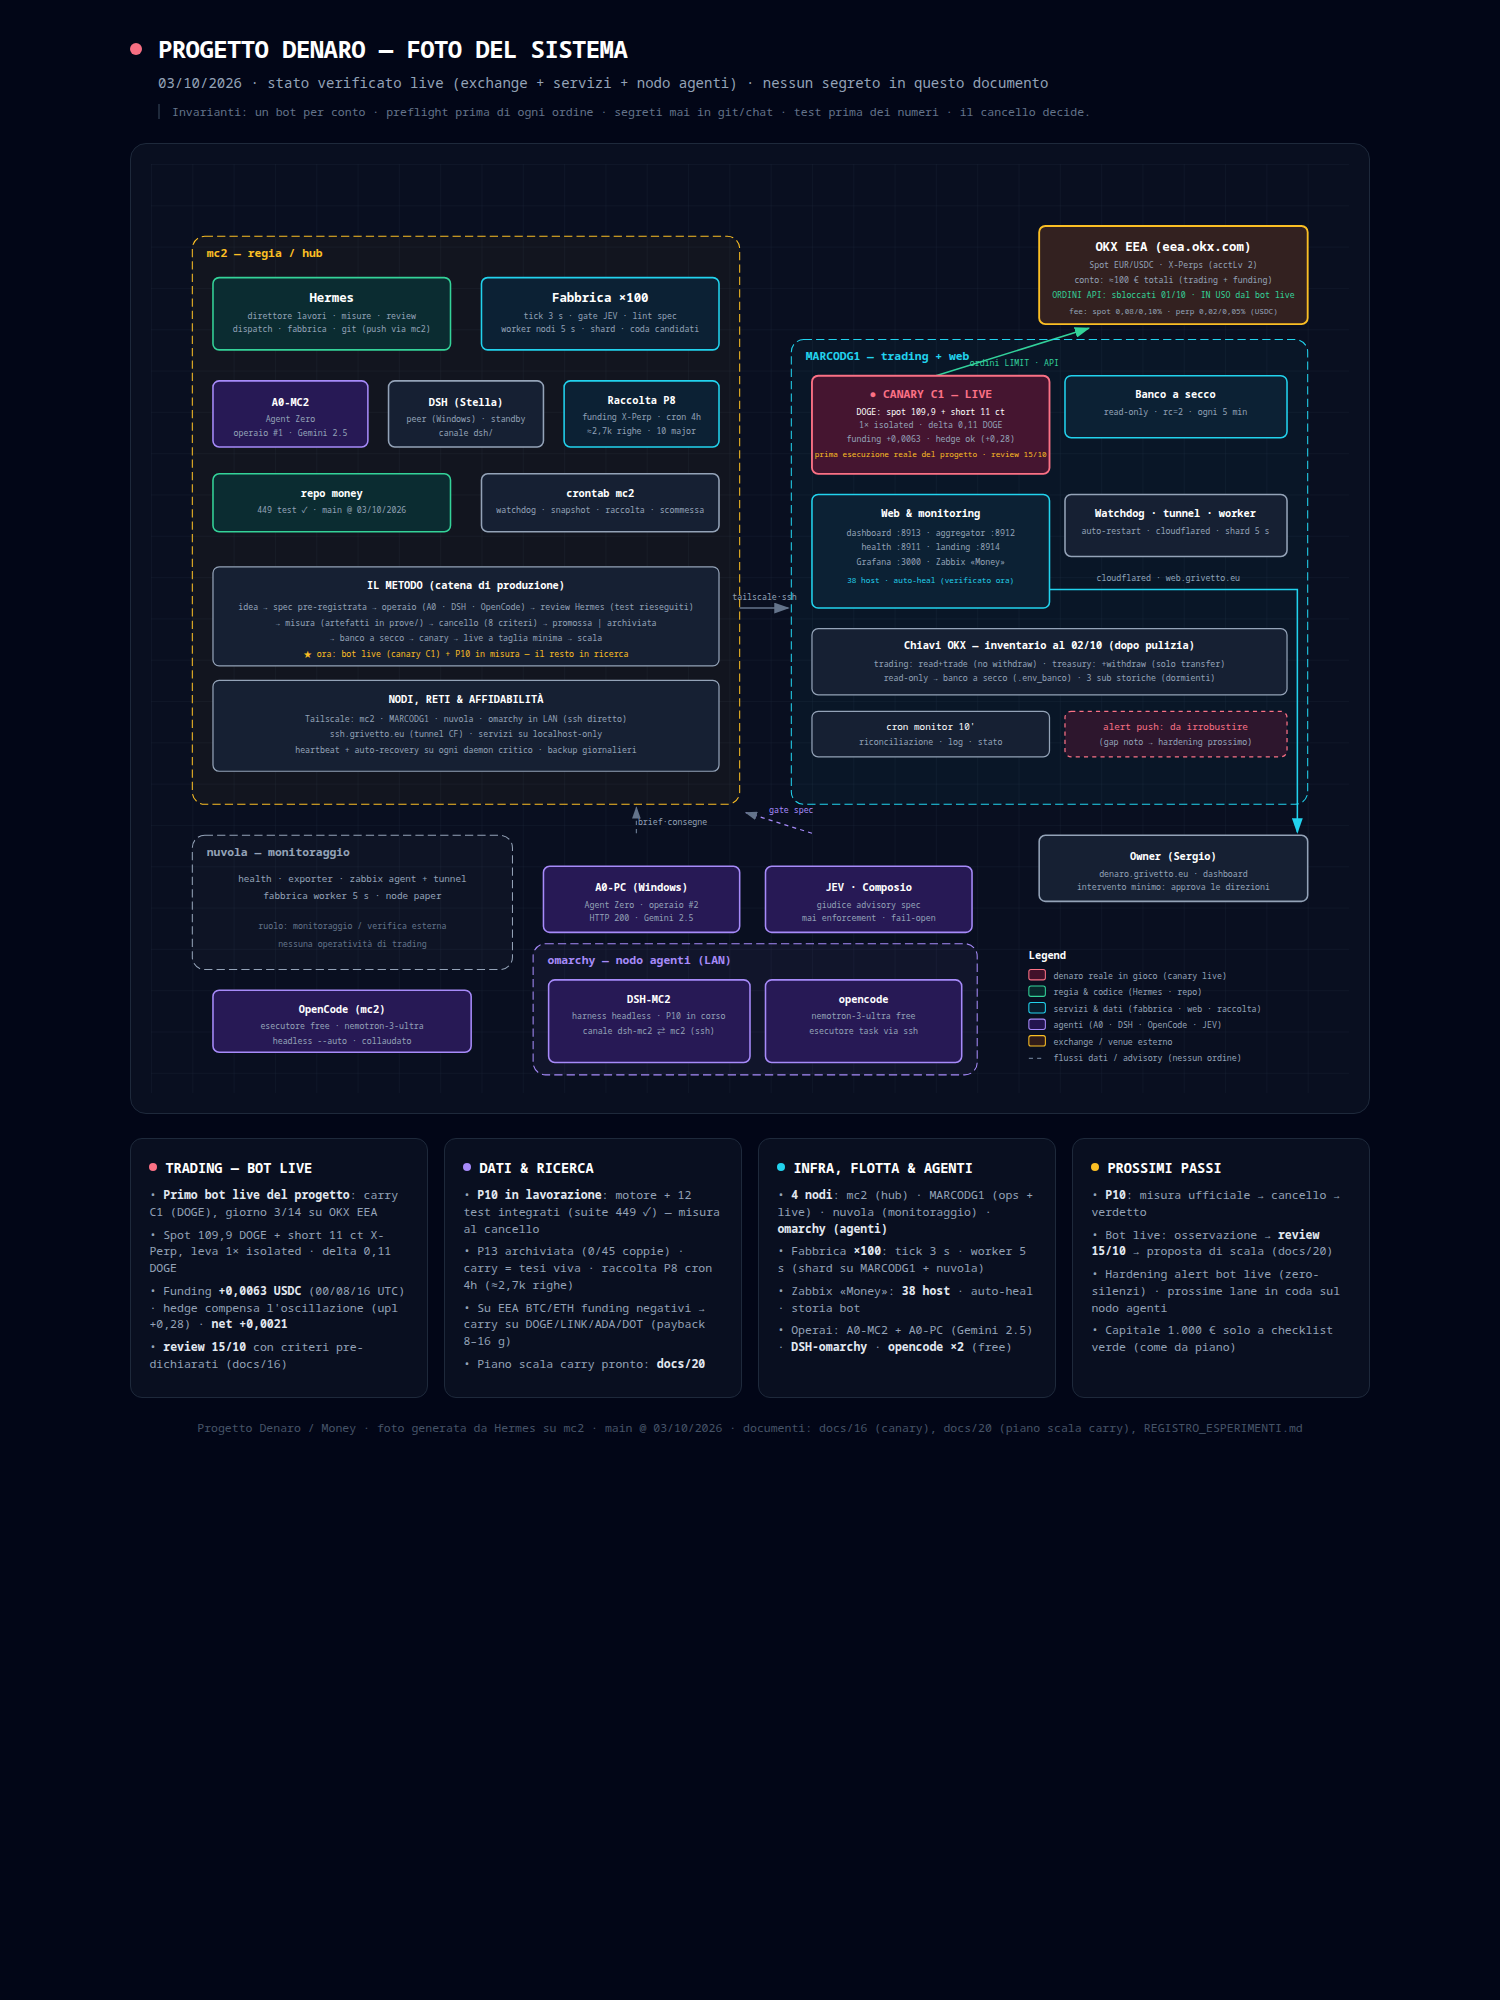
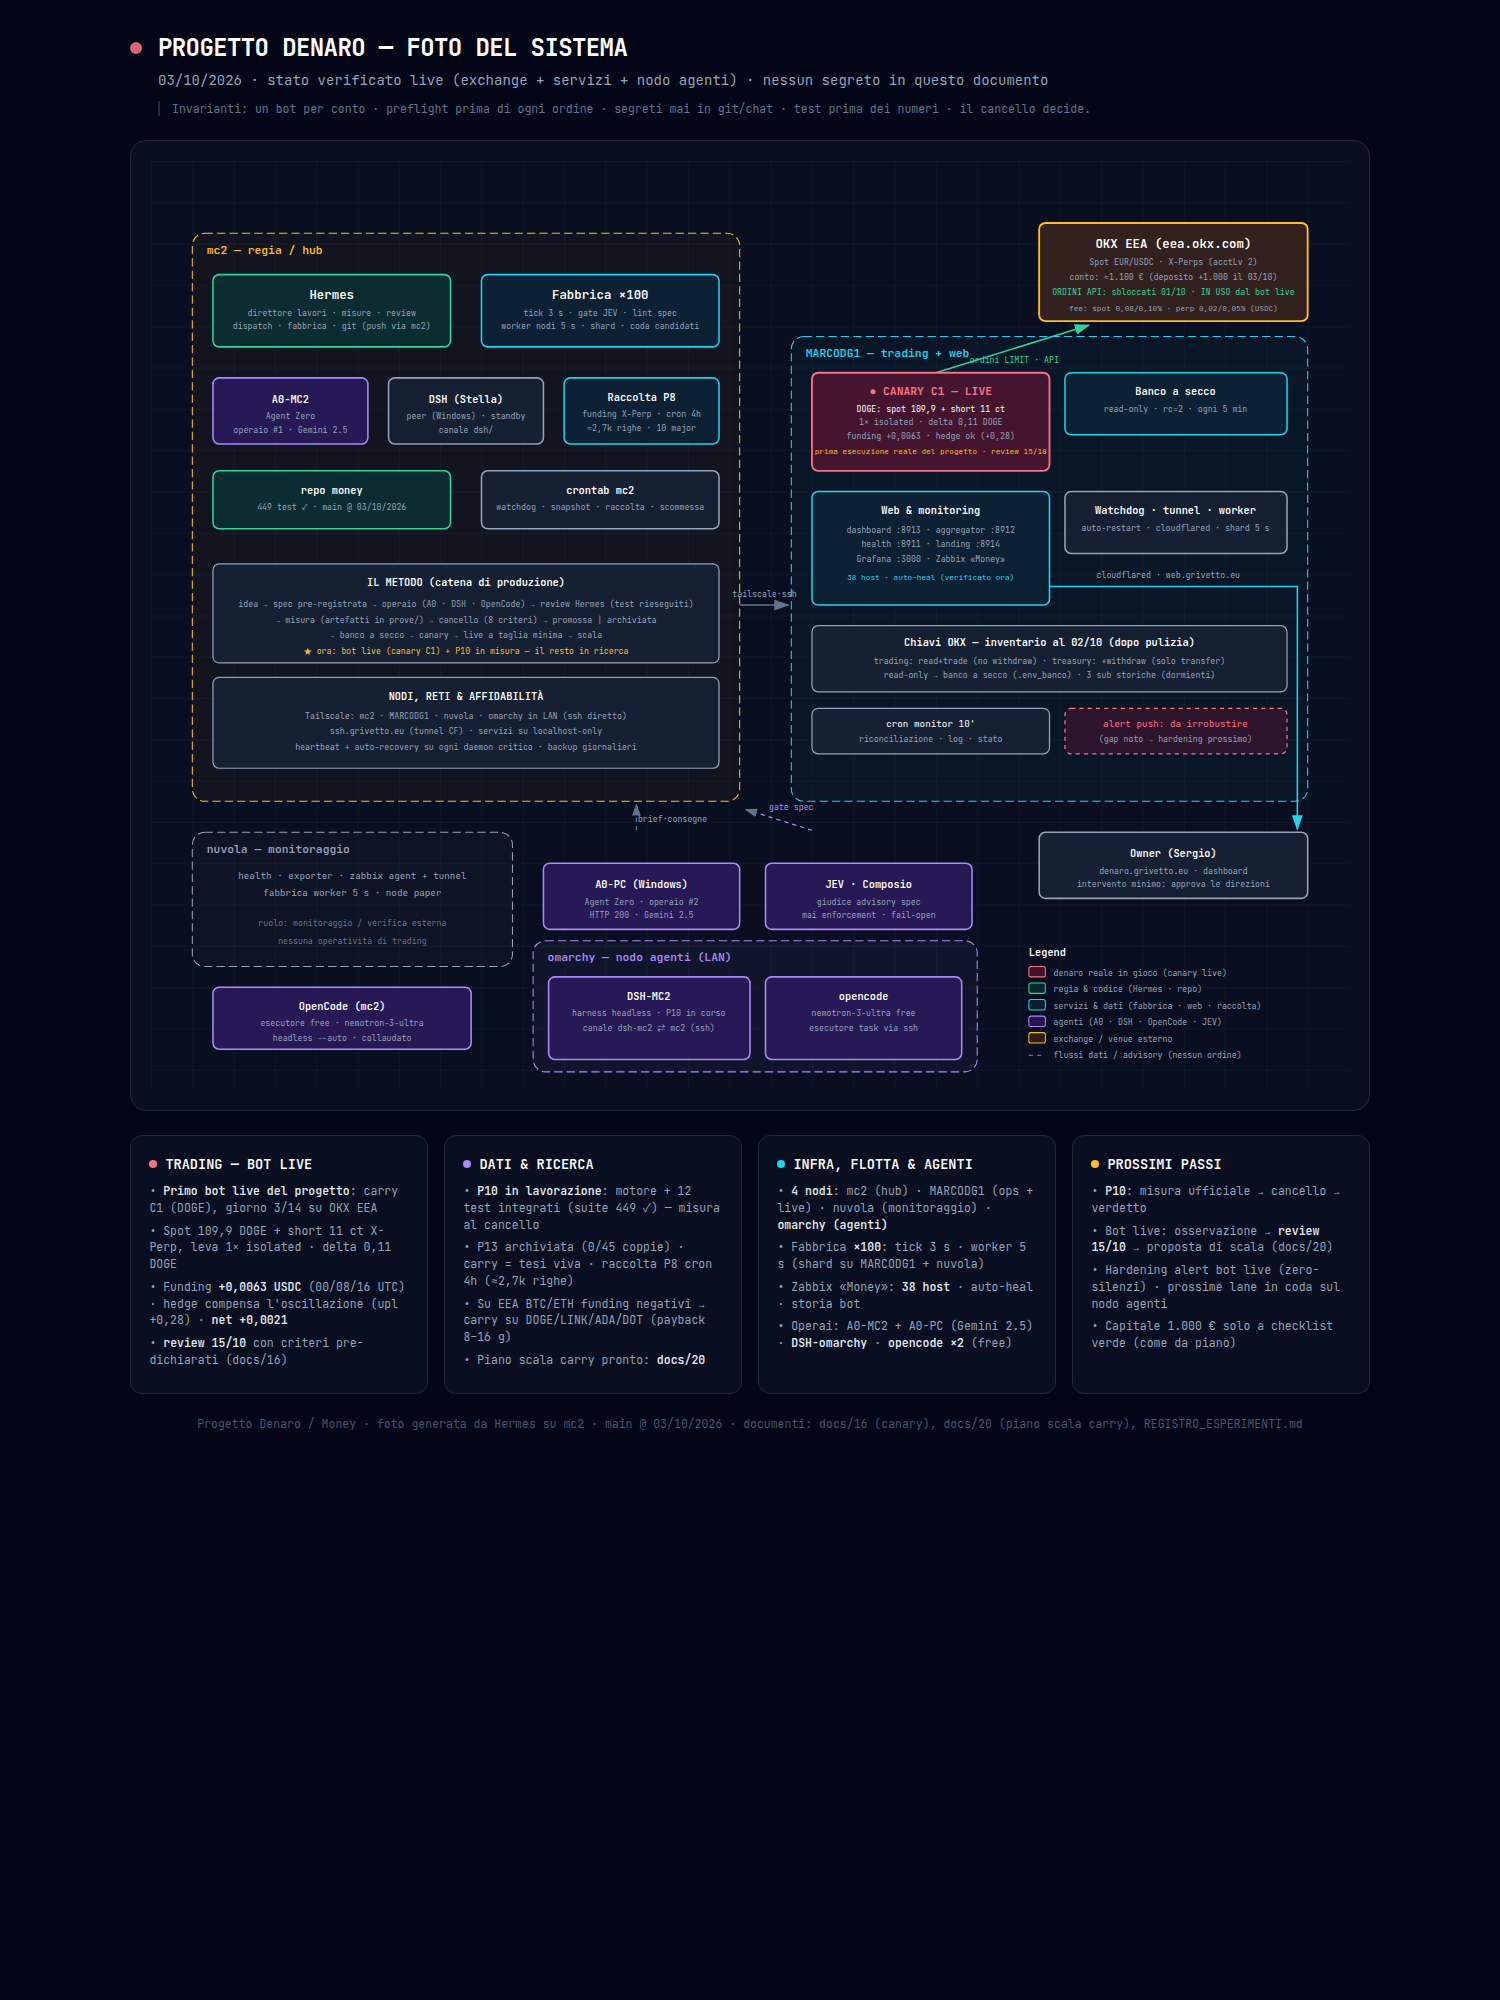
[hermes] capitale 1.1k€: deposito owner +1.000 EUR riconciliato (funding wallet) — README x4, registro, docs/20, vault, foto aggiornati

diff --git a/FOTO_SISTEMA_2026-10-03.html b/FOTO_SISTEMA_2026-10-03.html
@@ -248,7 +248,7 @@
         <rect x="860" y="60" width="260" height="95" rx="6" fill="rgba(120, 53, 15, 0.35)" stroke="#fbbf24" stroke-width="1.8"/>
         <text x="990" y="84" fill="white" font-size="12" font-weight="600" text-anchor="middle">OKX EEA (eea.okx.com)</text>
         <text x="990" y="101" fill="#94a3b8" font-size="8" text-anchor="middle">Spot EUR/USDC · X-Perps (acctLv 2)</text>
-        <text x="990" y="115" fill="#94a3b8" font-size="8" text-anchor="middle">conto: ≈100 € totali (trading + funding)</text>
+        <text x="990" y="115" fill="#94a3b8" font-size="8" text-anchor="middle">conto: ≈1.100 € (deposito +1.000 il 03/10)</text>
         <text x="990" y="130" fill="#34d399" font-size="8" text-anchor="middle">ORDINI API: sbloccati 01/10 · IN USO dal bot live</text>
         <text x="990" y="145" fill="#94a3b8" font-size="7.5" text-anchor="middle">fee: spot 0,08/0,10% · perp 0,02/0,05% (USDC)</text>
 

diff --git a/prove/REGISTRO_ESPERIMENTI.md b/prove/REGISTRO_ESPERIMENTI.md
@@ -84,3 +84,4 @@ dal 2026-09-30 in poi: **26** (P2: 6 misurate; P6: 6 misurate; P10: 8 dichiarate
 - 2026-10-01 — **P13 MISURATA e ARCHIVIATA (kill rapido)** (hermes): cointegrazione pairs/basket su 10 major. Screening EG su addestramento [2020-10-01,2024-06-01), 45 coppie, soglia |t_rho|>=3.8 corretta per 45 test, half-life [3,30]g, |dbeta|/beta<=30%: **0 coppie passanti**. Top: DOGE/LINK t_rho=-3.77 hl=88g dbeta=136%; ETH/LINK -3.72/95g/18%; ADA/XRP -3.64/44g/76%. Le relazioni esistenti sono sotto-soglia, troppo lente (hl 44-108g vs z-60g) e instabili: il rischio principe della spec (fragilita' della cointegrazione su finestre corte) confermato senza forzature. Verifica OOS non eseguita (0 coppie). Test 29/29 (anti-lookahead, aritmetica due gambe, ADF/OLS, screening, rotture, cancello). Artefatti `prove/P13_cointegrazione.*`; modulo `src/money/ricerca/p13_cointegrazione.py` (riutilizzabile) + `scripts/misura_p13.py`. Suite 408→437.
 - 2026-10-03 — **P10 consegnata (DSH-MC2) e integrata**: motore `src/money/ricerca/momentum_cross.py` + 12 test (verifica byte-exact + 449 passed su mc2; review Hermes); runner `scripts/misura_p10.py` (handoff 3 file + MANIFEST, sha256 verificati). Suite 437→449.
 - 2026-10-03 — **P10 MISURATA — verdetto INSUFFICIENTE** (hermes): griglia 8 varianti SOLO su addestramento (tutte riportate); scelta max exp/dd = top-2, momentum 120g, ribilancio 14g (exp netta +53,3%, DD port. 70,1%, n=21). Verifica OOS UNICA [2024-06-01 → 2026-09-25]: 23 eseguite / 7 saltate (cassa); exp netta +3,56%, DD portafoglio MTM 71,1%, t 0,45 (NW 0,43), capitale 1000→1023,4 EUR su 846g. Numerosità 23 < 30 → **'insufficiente' per regola dichiarata**: non promuove e non archivia. Scenario `okx_eea_con_perp` non cambia il verdetto (exp +3,93%). Nota onesta: OOS debole e sotto-potenziata; eventuale seguito = esperimento NUOVO con universo più ampio (nuova pre-registrazione). Fix cosmetico al testo di chiusura del runner (caso 'insufficiente' ≠ 'archiviato'); numeri e selezione immutati. Artefatti `prove/P10_momentum_cross.{txt,json}`.
+- 2026-10-03 — **Deposito owner: +1.000 EUR (SEPA) accreditati su OKX main** (funding wallet; verifica read-only: **+1.000,00 esatti**). Equity conto ≈1.100 EUR. Il capitale resta fermo fino alla review C1 del 15/10; trasferimento funding→trading e conversione EUR→USDC faranno parte del dossier di deploy (operazioni in blocco da approvare).

diff --git a/README.th.md b/README.th.md
@@ -31,7 +31,7 @@
 | **กลยุทธ์ที่วัดแล้ว** | **3** ตระกูล (หนึ่งต่อ node) ทั้งหมดถูกตัดสินที่ต้นทุนจริง |
 | **คำตัดสิน** | **เก็บเข้าคลัง 3** — ไม่มีอะไรถูกเลื่อนขึ้น ดังนั้นไม่มีอะไรอยู่ใน production |
 | **คำสั่งจริงที่ส่งไป** | **0** โดยกลยุทธ์ของ repo นี้ — ที่นี่ไม่มีอะไรเทรดจนกว่าประตูจะเลื่อนขึ้นและเจ้าของจะเติมทุน (canary ตัวจริงติดตามใน `alpha-omega-trading`) |
-| **ทุน** | **~100 EUR** ในบัญชี OKX (main + subs), ตรวจสอบแบบ read-only; canary ตัวจริงที่ได้รับอนุญาตจากเจ้าของ (DOGE carry) เทรดในส่วนเล็ก ๆ ของบัญชีย่อย |
+| **ทุน** | **~1,100 EUR** ในบัญชี OKX (read-only) — เจ้าของฝากเพิ่ม **+1,000 EUR เมื่อ 03/10** เพื่อขยาย carry (deploy รอรีวิว 15/10); canary จริง (DOGE carry) บนบัญชีหลัก |
 | **คอมมิตล่าสุด** | `main` — ดู `git log` สำหรับ head ปัจจุบัน |
 
 Repository: `C:\dev\money` ในเครื่อง, `github.com/grivetto/money` บนรีโมต แพ็กเกจ Python อยู่ใต้

diff --git a/README.es.md b/README.es.md
@@ -31,7 +31,7 @@ cimiento sobre el que construir.
 | **Estrategias medidas** | **3** familias (una por nodo), todas juzgadas a costes reales |
 | **Veredictos** | **3 archivadas** (familias) — el carry en vivo **C1** está en su ventana de validación canary (review 15/10) |
 | **Órdenes reales enviadas** | **0** por las estrategias de este repo — el primer bot en vivo del proyecto (carry **C1**, DOGE) opera en OKX EEA y se sigue en `alpha-omega-trading` (`docs/16`) |
-| **Capital** | **~100 EUR** en las cuentas de OKX (principal + sub), verificado en solo lectura; un canary en vivo autorizado por el propietario (carry de DOGE) opera una pequeña parte de la subcuenta |
+| **Capital** | **~1,100 EUR** en las cuentas de OKX (verificado en solo lectura) — el propietario depositó **+1.000 EUR el 03/10** para escalar el carry (despliegue condicionado a la revisión del 15/10); el canary en vivo (carry de DOGE, autorizado) opera en la cuenta principal |
 | **Último commit** | `main` — ver `git log` para el head actual |
 
 Repositorio: `C:\dev\money` en local, `github.com/grivetto/money` en remoto. Paquete Python bajo

diff --git a/README.it.md b/README.it.md
@@ -30,7 +30,7 @@ sua storia, come memoria di cosa è stato provato — non come base su cui costr
 | **Strategie misurate** | **3** famiglie (una per nodo), tutte giudicate ai costi reali |
 | **Verdetti** | **3 archiviate** (famiglie) — il carry live **C1** è nella finestra di validazione canary (review 15/10) |
 | **Ordini reali inviati** | **0** dalle strategie di questo repo — il primo bot live del progetto (carry **C1**, DOGE) opera su OKX EEA ed è tracciato in `alpha-omega-trading` (`docs/16`) |
-| **Capitale** | **~100 EUR** sui conti OKX (main + sub), verificati in sola lettura; un canary live autorizzato dall'owner (carry DOGE) opera su una piccola porzione del sub-account |
+| **Capitale** | **~1.100 EUR** sui conti OKX (verificati in sola lettura) — l'owner ha depositato **+1.000 EUR il 03/10** per la scala del carry (deploy subordinato alla review del 15/10); il canary live (carry DOGE, autorizzato) gira sul conto main |
 | **Ultimo commit** | `main` — vedi `git log` per la testa corrente |
 
 Repository: `C:\dev\money` in locale, `github.com/grivetto/money` in remoto. Pacchetto Python sotto

diff --git a/README.md b/README.md
@@ -31,7 +31,7 @@ foundation to build on.
 | **Strategies measured** | **3** families (one per node), all judged at real costs |
 | **Verdicts** | **3 archived** (strategy families) — the live carry **C1** is in its canary validation window (review 15/10) |
 | **Real orders sent** | **0** by this repo's strategies — the project's first live bot (carry **C1**, DOGE) runs on OKX EEA and is tracked in `alpha-omega-trading` (`docs/16`) |
-| **Capital** | **~100 EUR** across the OKX accounts (main + subs), verified read-only; one owner-authorized live canary (DOGE carry) runs a small slice of the trading sub-account |
+| **Capital** | **~1,100 EUR** across the OKX accounts (verified read-only) — owner deposited **+1,000 EUR on 03/10** for the carry scale-up (deployment gated on the 15/10 review); the live canary (DOGE carry, owner-authorized) runs on the main account |
 | **Last commit** | `main` — see `git log` for the current head |
 
 Repository: `C:\dev\money` locally, `github.com/grivetto/money` remotely. Python package under

diff --git a/vault/30-Infrastruttura.md b/vault/30-Infrastruttura.md
@@ -14,6 +14,7 @@
 
 ## Soldi e chiavi (stato al 29/09)
 - OKX main: ~100,00 € in **funding** — la chiave main risponde solo dall'IP di MARCODG1
+- **03/10: deposito owner +1.000 EUR** → equity main ≈1.100 EUR (accredito nel funding wallet, verificato read-only: +1.000,00 esatti). Deploy carry subordinato alla review del 15/10.
 - Sub-account (mc2sub1 / marcosub1 / nuvolasub1): dust
 - **Banco a secco**: attivo su MARCODG1 — ciclo automatico ogni 5 min, solo DRY-RUN, tripwire a 100,00 €
 

diff --git a/docs/20_carry_scala_20261002.md b/docs/20_carry_scala_20261002.md
@@ -55,4 +55,5 @@ BTC/ETH: NEGATIVI su EEA → esclusi. Baseline = always-on (la regola di uscita
 
 ### Checkpoint
 - **15/10**: review C1 → decisione su fase 2 e sizing.
+- **03/10**: deposito owner **+1.000 EUR** accreditato su OKX main (funding wallet, verificato read-only). Al deploy: trasferimento funding→trading + conversione parziale EUR→USDC = operazioni in blocco da approvare.
 - Deposito: quando arriva, il sizing si ricalcola con lo stesso schema.
